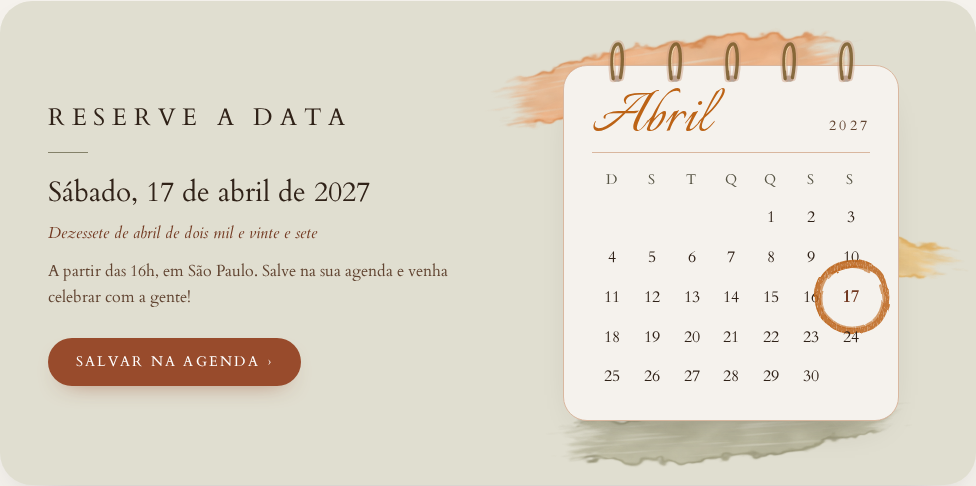
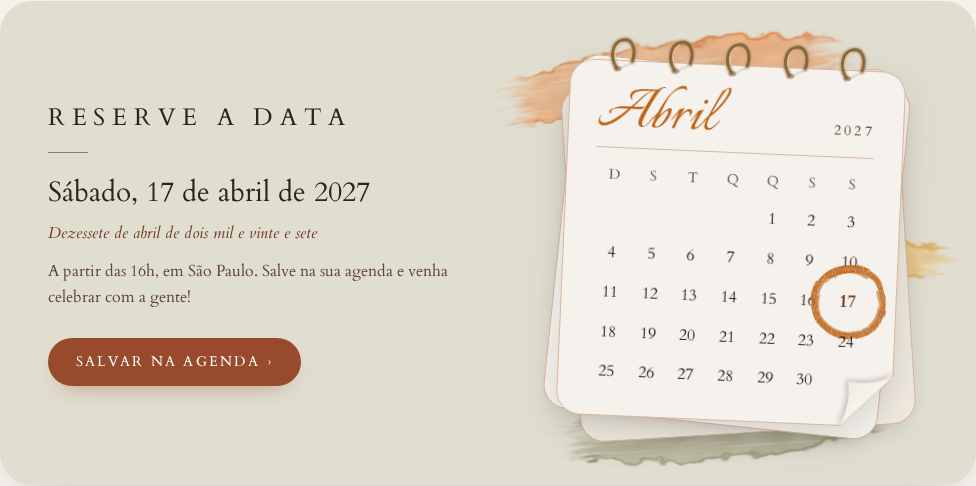
Calendário de ladinho com folhas e orelha

diff --git a/components/molecules/WeddingCalendar.tsx b/components/molecules/WeddingCalendar.tsx
@@ -16,7 +16,11 @@ const YEAR = 2027;
 const MONTH = 3; // abril (0-based)
 const DAY = 17;
 
-const INTL: Record<Locale, string> = { pt: "pt-BR", en: "en-US", ar: "ar-u-nu-latn" };
+const INTL: Record<Locale, string> = {
+  pt: "pt-BR",
+  en: "en-US",
+  ar: "ar-u-nu-latn",
+};
 
 function cap(s: string) {
   return s.charAt(0).toLocaleUpperCase() + s.slice(1);
@@ -33,14 +37,42 @@ function BrushCircle() {
       <defs>
         {/* pincel: contorno ondulado (ruído grosso) + falhas de tinta seca (ruído fino e esticado) */}
         <filter id="brush-rough" x="-25%" y="-25%" width="150%" height="150%">
-          <feTurbulence type="fractalNoise" baseFrequency="0.035" numOctaves="2" seed="3" result="wob" />
-          <feDisplacementMap in="SourceGraphic" in2="wob" scale="5" result="shape" />
-          <feTurbulence type="fractalNoise" baseFrequency="0.9 0.22" numOctaves="2" seed="11" result="grain" />
-          <feColorMatrix in="grain" type="matrix" values="0 0 0 0 0  0 0 0 0 0  0 0 0 0 0  0 0 0 -1.5 1.8" result="dry" />
+          <feTurbulence
+            type="fractalNoise"
+            baseFrequency="0.035"
+            numOctaves="2"
+            seed="3"
+            result="wob"
+          />
+          <feDisplacementMap
+            in="SourceGraphic"
+            in2="wob"
+            scale="5"
+            result="shape"
+          />
+          <feTurbulence
+            type="fractalNoise"
+            baseFrequency="0.9 0.22"
+            numOctaves="2"
+            seed="11"
+            result="grain"
+          />
+          <feColorMatrix
+            in="grain"
+            type="matrix"
+            values="0 0 0 0 0  0 0 0 0 0  0 0 0 0 0  0 0 0 -1.5 1.8"
+            result="dry"
+          />
           <feComposite in="shape" in2="dry" operator="in" />
         </filter>
       </defs>
-      <g fill="none" stroke="#bc6316" strokeLinecap="round" strokeLinejoin="round" filter="url(#brush-rough)">
+      <g
+        fill="none"
+        stroke="#bc6316"
+        strokeLinecap="round"
+        strokeLinejoin="round"
+        filter="url(#brush-rough)"
+      >
         {/* passada principal: laço inclinado que cruza o começo, como caneta/pincel à mão */}
         <path
           className="brush-draw"
@@ -70,23 +102,52 @@ function BrushCircle() {
 }
 
 /**
- * Argolas de encadernação pintadas em aquarela (tom caramelo/dourado): cada
- * uma sai de um furo no topo da folha e dá a volta por cima, como calendário
- * de mesa. Três camadas — lavagem larga e clara, traço principal e um brilho
- * fino — passadas pelo mesmo filtro de "tremido" de pincel.
+ * Argolas de encadernação pintadas em aquarela (tom caramelo/dourado), vistas
+ * UM POUCO DE LADO (pedido do Manu, ref. de caderno espiral): cada argola sai
+ * do furo na frente da folha, dá a volta por cima e desce POR TRÁS da borda.
+ * Camadas: sombra na folha, lavagem larga, traço principal e brilho fino,
+ * com o mesmo "tremido" de pincel. A linha y=28 do viewBox é a borda da folha.
  */
 function Ring() {
+  const loop = "M9 35 C2.5 27 3 11.5 13.5 9 C22.5 7 26.5 17.5 23 28";
   return (
-    <svg aria-hidden="true" viewBox="0 0 24 46" className="h-12 w-[1.6rem] overflow-visible">
-      {/* furo na folha */}
-      <ellipse cx="12" cy="38" rx="4.6" ry="3" fill="#614431" fillOpacity={0.45} filter="url(#ring-soft)" />
+    <svg
+      aria-hidden="true"
+      viewBox="0 0 30 44"
+      className="h-12 w-[2.1rem] overflow-visible"
+    >
+      {/* furo e sombra da argola na folha */}
+      <ellipse
+        cx="9.5"
+        cy="35.5"
+        rx="3.6"
+        ry="2.4"
+        fill="#614431"
+        fillOpacity={0.5}
+        filter="url(#ring-soft)"
+      />
+      <path
+        d="M11 36 C14 34 19 31 24 29"
+        stroke="#3a3834"
+        strokeOpacity={0.12}
+        strokeWidth={2.4}
+        fill="none"
+        filter="url(#ring-soft)"
+      />
       <g fill="none" strokeLinecap="round" filter="url(#ring-rough)">
-        {/* lavagem larga */}
-        <path d="M8.5 38 C7 26 6 9 12 5 C18 1.5 18.5 22 15.5 37" stroke="#cd9e80" strokeOpacity={0.45} strokeWidth={7} />
-        {/* traço principal */}
-        <path d="M8.5 38 C7 26 6 9 12 5 C18 1.5 18.5 22 15.5 37" stroke="#785a29" strokeOpacity={0.85} strokeWidth={3.2} />
-        {/* brilho */}
-        <path d="M9.4 30 C8.6 21 8.6 11 12 7.6" stroke="#f8e0b6" strokeOpacity={0.9} strokeWidth={0.9} />
+        <path
+          d={loop}
+          stroke="#cd9e80"
+          strokeOpacity={0.45}
+          strokeWidth={6.5}
+        />
+        <path d={loop} stroke="#785a29" strokeOpacity={0.85} strokeWidth={3} />
+        <path
+          d="M7.4 27 C5.8 20 7.5 13 12.6 11.2"
+          stroke="#f8e0b6"
+          strokeOpacity={0.9}
+          strokeWidth={0.9}
+        />
       </g>
     </svg>
   );
@@ -94,12 +155,21 @@ function Ring() {
 
 function Rings() {
   return (
-    <div aria-hidden="true" className="pointer-events-none absolute inset-x-8 -top-[27px] flex justify-between sm:inset-x-10">
+    <div
+      aria-hidden="true"
+      className="pointer-events-none absolute inset-x-7 -top-[30px] z-10 flex justify-between sm:inset-x-9"
+    >
       <svg width="0" height="0" className="absolute">
         <defs>
           <filter id="ring-rough" x="-40%" y="-20%" width="180%" height="140%">
-            <feTurbulence type="fractalNoise" baseFrequency="0.7" numOctaves="2" seed="4" result="n" />
-            <feDisplacementMap in="SourceGraphic" in2="n" scale="1.3" />
+            <feTurbulence
+              type="fractalNoise"
+              baseFrequency="0.7"
+              numOctaves="2"
+              seed="4"
+              result="n"
+            />
+            <feDisplacementMap in="SourceGraphic" in2="n" scale="1.2" />
           </filter>
           <filter id="ring-soft">
             <feGaussianBlur stdDeviation="0.7" />
@@ -113,52 +183,152 @@ function Rings() {
   );
 }
 
-export function WeddingCalendar({ locale, className }: { locale: Locale; className?: string }) {
+/** Tamanho (px) da "orelha" dobrada no canto de baixo da folha. */
+const CURL = 52;
+
+/**
+ * Orelhinha: o canto de baixo da folha dobrado pra cima, mostrando o verso
+ * do papel (degradê linho) com uma sombrinha sobre a folha. A folha tem o
+ * canto recortado por `clip-path` e a orelha cobre o corte.
+ */
+function PageCurl() {
+  return (
+    <svg
+      aria-hidden="true"
+      viewBox={`0 0 ${CURL} ${CURL}`}
+      width={CURL}
+      height={CURL}
+      className="pointer-events-none absolute bottom-0 right-0 z-10 overflow-visible"
+    >
+      <defs>
+        <linearGradient id="curl-back" x1="1" y1="1" x2="0" y2="0">
+          <stop offset="0" stopColor="#d9cfc0" />
+          <stop offset="0.35" stopColor="#fbf8f2" />
+          <stop offset="1" stopColor="#ece5da" />
+        </linearGradient>
+        <filter id="curl-shadow" x="-40%" y="-40%" width="180%" height="180%">
+          <feDropShadow
+            dx="-2"
+            dy="-1.5"
+            stdDeviation="2.2"
+            floodColor="#3a3834"
+            floodOpacity="0.28"
+          />
+        </filter>
+      </defs>
+      <path
+        d={`M${CURL} 0 Q30 11 7 7 Q11 30 0 ${CURL} Z`}
+        fill="url(#curl-back)"
+        stroke="#e6cebf"
+        strokeWidth={0.8}
+        filter="url(#curl-shadow)"
+      />
+    </svg>
+  );
+}
+
+export function WeddingCalendar({
+  locale,
+  className,
+}: {
+  locale: Locale;
+  className?: string;
+}) {
   const intl = INTL[locale];
-  const month = cap(new Intl.DateTimeFormat(intl, { month: "long", timeZone: "UTC" }).format(new Date(Date.UTC(YEAR, MONTH, 1))));
+  const month = cap(
+    new Intl.DateTimeFormat(intl, { month: "long", timeZone: "UTC" }).format(
+      new Date(Date.UTC(YEAR, MONTH, 1)),
+    ),
+  );
   // 2027-04-04 é domingo: gera os rótulos de domingo a sábado
   const weekdays = Array.from({ length: 7 }, (_, i) =>
-    new Intl.DateTimeFormat(intl, { weekday: "narrow", timeZone: "UTC" }).format(new Date(Date.UTC(YEAR, MONTH, 4 + i))),
+    new Intl.DateTimeFormat(intl, {
+      weekday: "narrow",
+      timeZone: "UTC",
+    }).format(new Date(Date.UTC(YEAR, MONTH, 4 + i))),
   );
   const firstWeekday = new Date(Date.UTC(YEAR, MONTH, 1)).getUTCDay();
   const days = new Date(Date.UTC(YEAR, MONTH + 1, 0)).getUTCDate();
-  const cells: (number | null)[] = [...Array<null>(firstWeekday).fill(null), ...Array.from({ length: days }, (_, i) => i + 1)];
-  const fullDate = new Intl.DateTimeFormat(intl, { dateStyle: "full", timeZone: "UTC" }).format(new Date(Date.UTC(YEAR, MONTH, DAY)));
+  const cells: (number | null)[] = [
+    ...Array<null>(firstWeekday).fill(null),
+    ...Array.from({ length: days }, (_, i) => i + 1),
+  ];
+  const fullDate = new Intl.DateTimeFormat(intl, {
+    dateStyle: "full",
+    timeZone: "UTC",
+  }).format(new Date(Date.UTC(YEAR, MONTH, DAY)));
 
   return (
-    <PaintReveal variant="rise" delay={120} className={["mx-auto w-full", className].filter(Boolean).join(" ")}>
-      <figure
-        aria-label={fullDate}
-        className="relative rounded-card border border-caramelo-100 bg-page px-5 pb-6 pt-8 shadow-[0_18px_40px_-30px_rgba(45,43,35,0.45)] backdrop-blur-[2px] sm:px-7"
-      >
+    <PaintReveal
+      variant="rise"
+      delay={120}
+      className={["mx-auto w-full", className].filter(Boolean).join(" ")}
+    >
+      {/* folhinha levemente de lado, com folhas de papel atrás aparecendo */}
+      <div className="relative isolate rotate-[2.5deg] rtl:-rotate-[2.5deg]">
+        <span
+          aria-hidden="true"
+          className="absolute inset-0 -z-10 translate-x-2 translate-y-3 -rotate-[6deg] rounded-card border border-caramelo-100 bg-[#efe9df] shadow-[0_14px_30px_-22px_rgba(45,43,35,0.5)]"
+        />
+        <span
+          aria-hidden="true"
+          className="absolute inset-0 -z-10 -translate-x-1 translate-y-1 rotate-[3.5deg] rounded-card border border-caramelo-100 bg-[#f8f5ef] shadow-[0_10px_24px_-20px_rgba(45,43,35,0.5)]"
+        />
         <Rings />
-        <figcaption className="flex items-baseline justify-between border-b border-caramelo-100 pb-3">
-          <span className="font-display leading-none text-text-title" style={{ fontSize: "clamp(2rem, 4vw, 2.6rem)" }}>
-            {month}
-          </span>
-          <span className="font-body text-100 tracking-[0.24em] text-text-secondary">{YEAR}</span>
-        </figcaption>
+        <div className="drop-shadow-[0_14px_18px_rgba(45,43,35,0.16)]">
+          <figure
+            aria-label={fullDate}
+            className="relative rounded-card border border-caramelo-100 bg-page px-5 pb-6 pt-8 sm:px-7"
+            style={{
+              clipPath: `polygon(0 0, 100% 0, 100% calc(100% - ${CURL}px), calc(100% - ${CURL}px) 100%, 0 100%)`,
+            }}
+          >
+            <figcaption className="flex items-baseline justify-between border-b border-caramelo-100 pb-3">
+              <span
+                className="font-display leading-none text-text-title"
+                style={{ fontSize: "clamp(2rem, 4vw, 2.6rem)" }}
+              >
+                {month}
+              </span>
+              <span className="font-body text-100 tracking-[0.24em] text-text-secondary">
+                {YEAR}
+              </span>
+            </figcaption>
 
-        <div aria-hidden="true" className="mt-4 grid grid-cols-7 text-center">
-          {weekdays.map((w, i) => (
-            <span key={i} className="pb-2 font-body text-[0.7rem] uppercase tracking-[0.12em] text-salvia-800 sm:text-100">
-              {w}
-            </span>
-          ))}
-          {cells.map((d, i) => (
-            <span key={i} className="relative flex aspect-square items-center justify-center font-body text-200 text-text-primary">
-              {d === DAY ? (
-                <>
-                  <BrushCircle />
-                  <span className="relative font-bold text-terracota-700">{d}</span>
-                </>
-              ) : (
-                d
-              )}
-            </span>
-          ))}
+            <div
+              aria-hidden="true"
+              className="mt-4 grid grid-cols-7 text-center"
+            >
+              {weekdays.map((w, i) => (
+                <span
+                  key={i}
+                  className="pb-2 font-body text-[0.7rem] uppercase tracking-[0.12em] text-salvia-800 sm:text-100"
+                >
+                  {w}
+                </span>
+              ))}
+              {cells.map((d, i) => (
+                <span
+                  key={i}
+                  className="relative flex aspect-square items-center justify-center font-body text-200 text-text-primary"
+                >
+                  {d === DAY ? (
+                    <>
+                      <BrushCircle />
+                      <span className="relative font-bold text-terracota-700">
+                        {d}
+                      </span>
+                    </>
+                  ) : (
+                    d
+                  )}
+                </span>
+              ))}
+            </div>
+          </figure>
         </div>
-      </figure>
+        <PageCurl />
+      </div>
     </PaintReveal>
   );
 }
